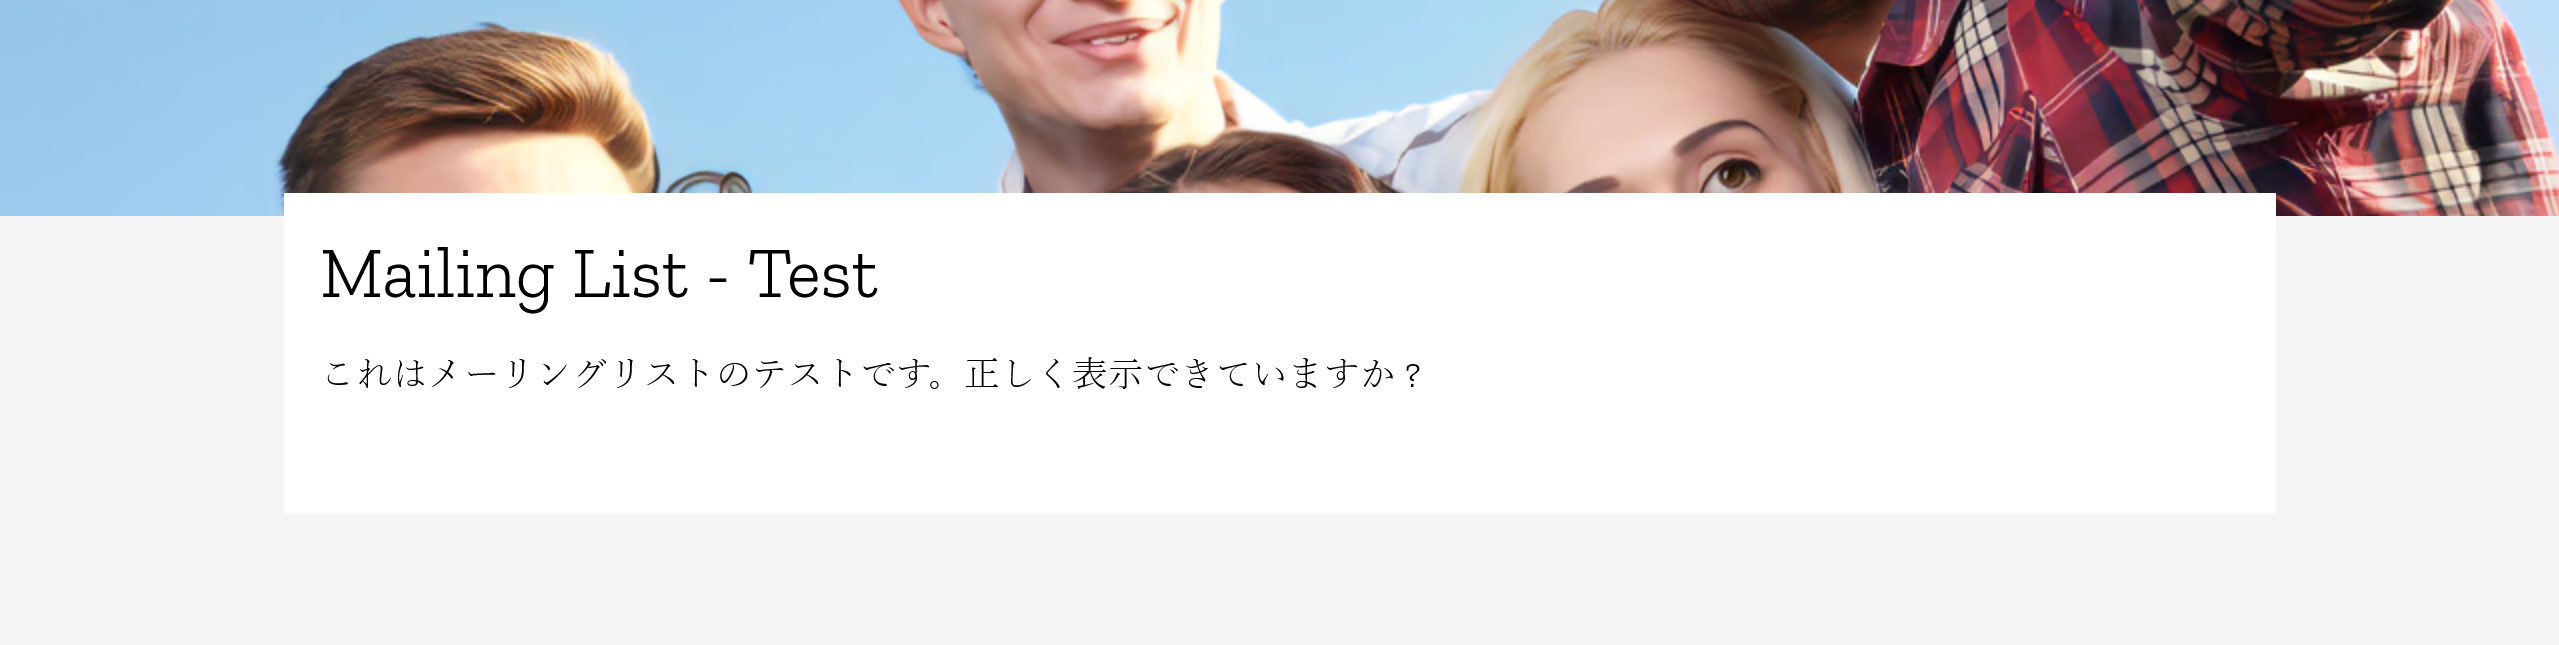
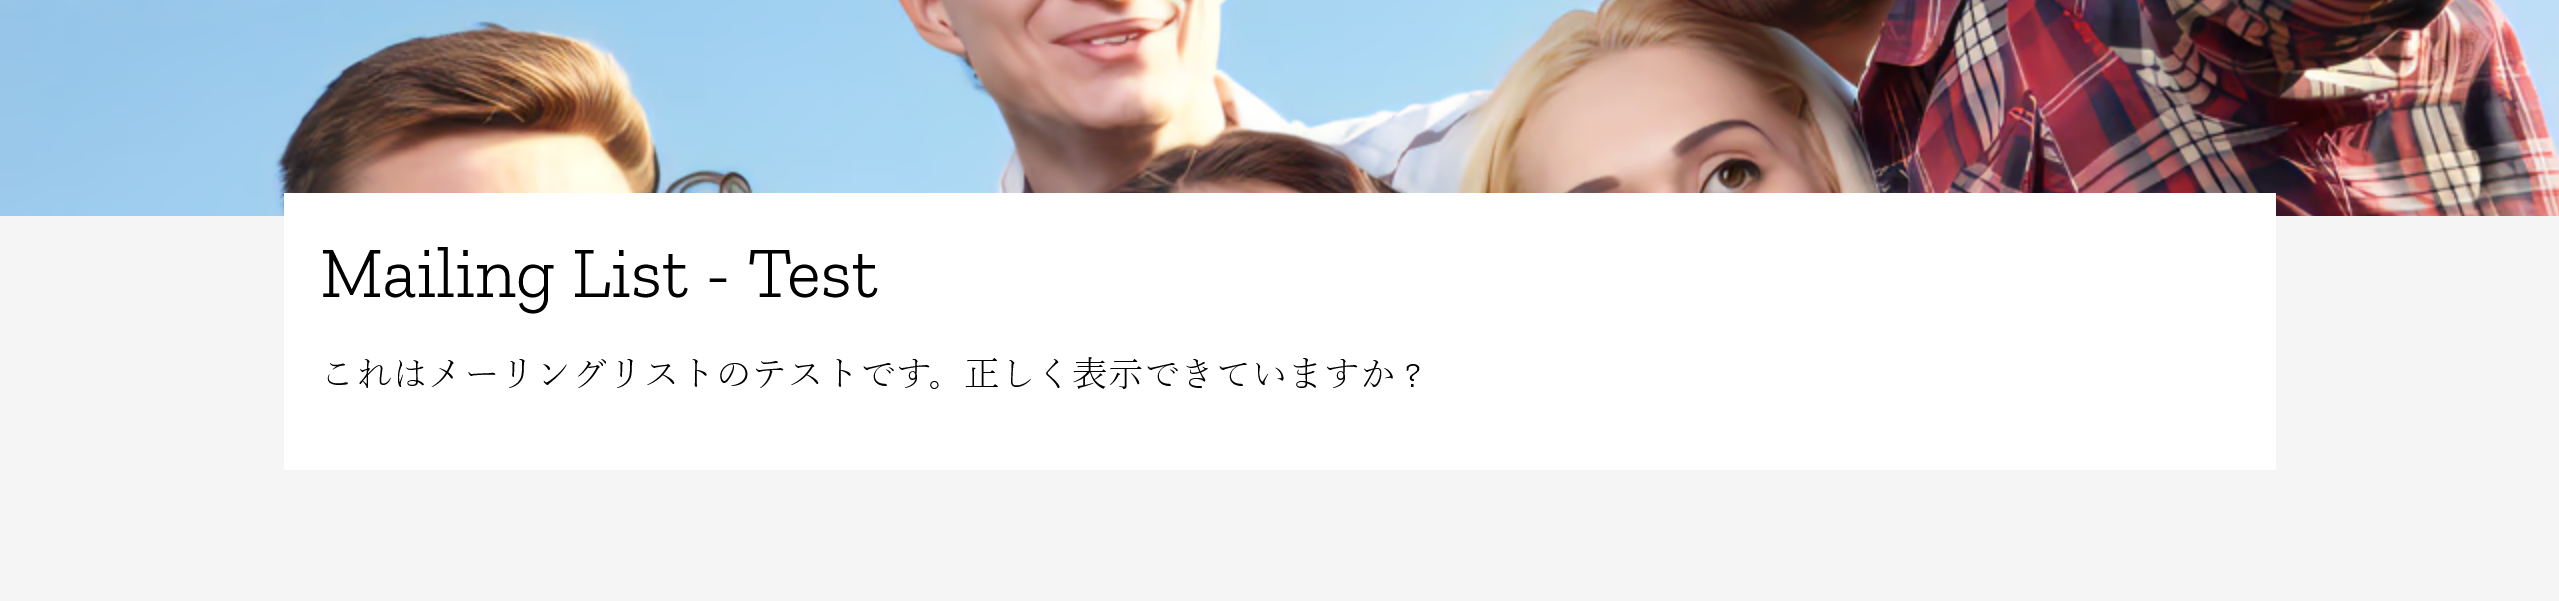
Add files via upload

diff --git a/ml-tpl.html b/ml-tpl.html
@@ -87,5 +87,6 @@
   <div>
     <h1>Mailing List - Test</h1>
     <p>これはメーリングリストのテストです。正しく表示できていますか ?</p>
-    <img src="https://hiw-homepage.ml/mail/image/sample.png" alt="">
+    <p>以下↓</p>
+    <img style="width: 100%;" src="./mail/image/sample.png" alt="">
   </div></main>
